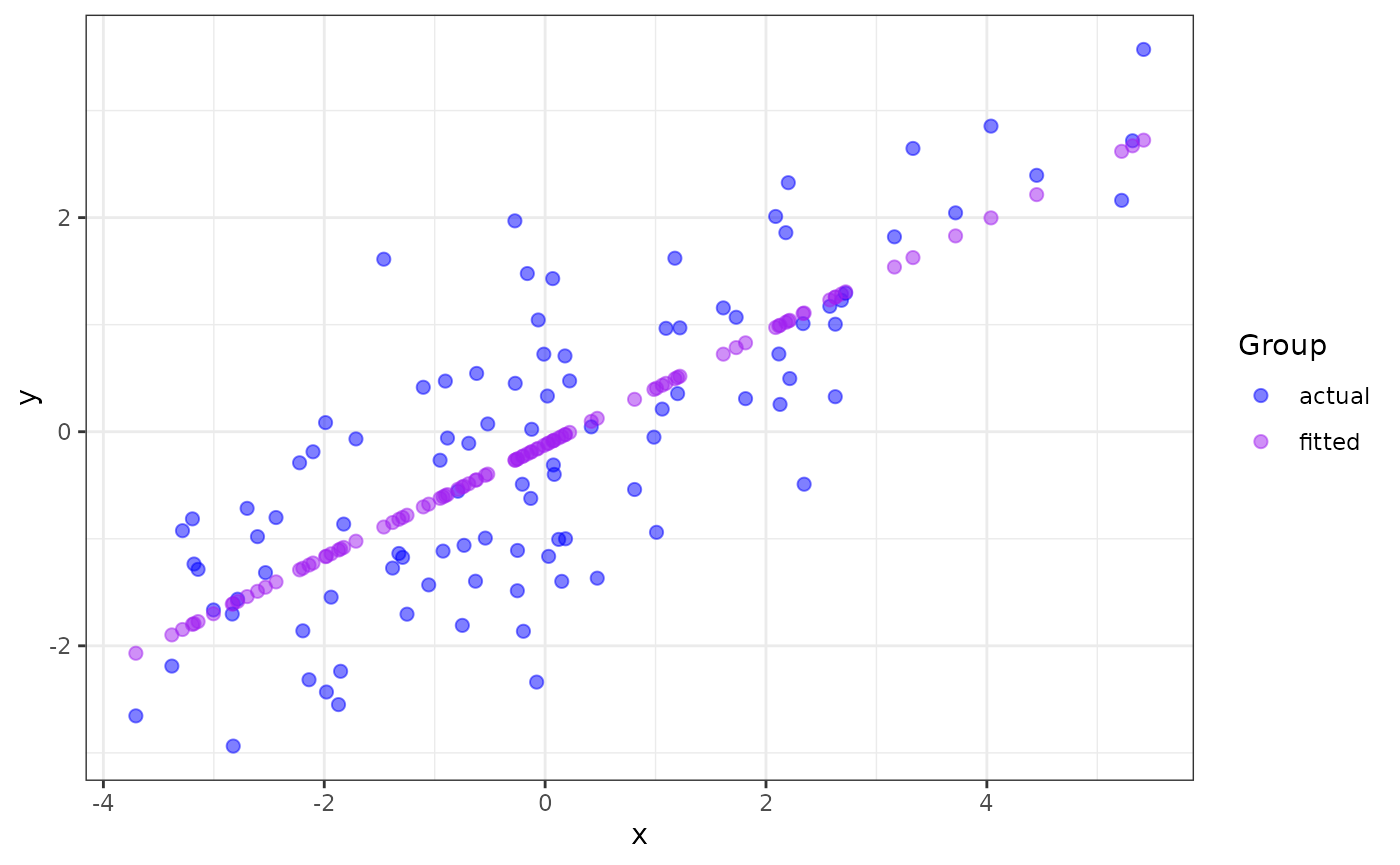
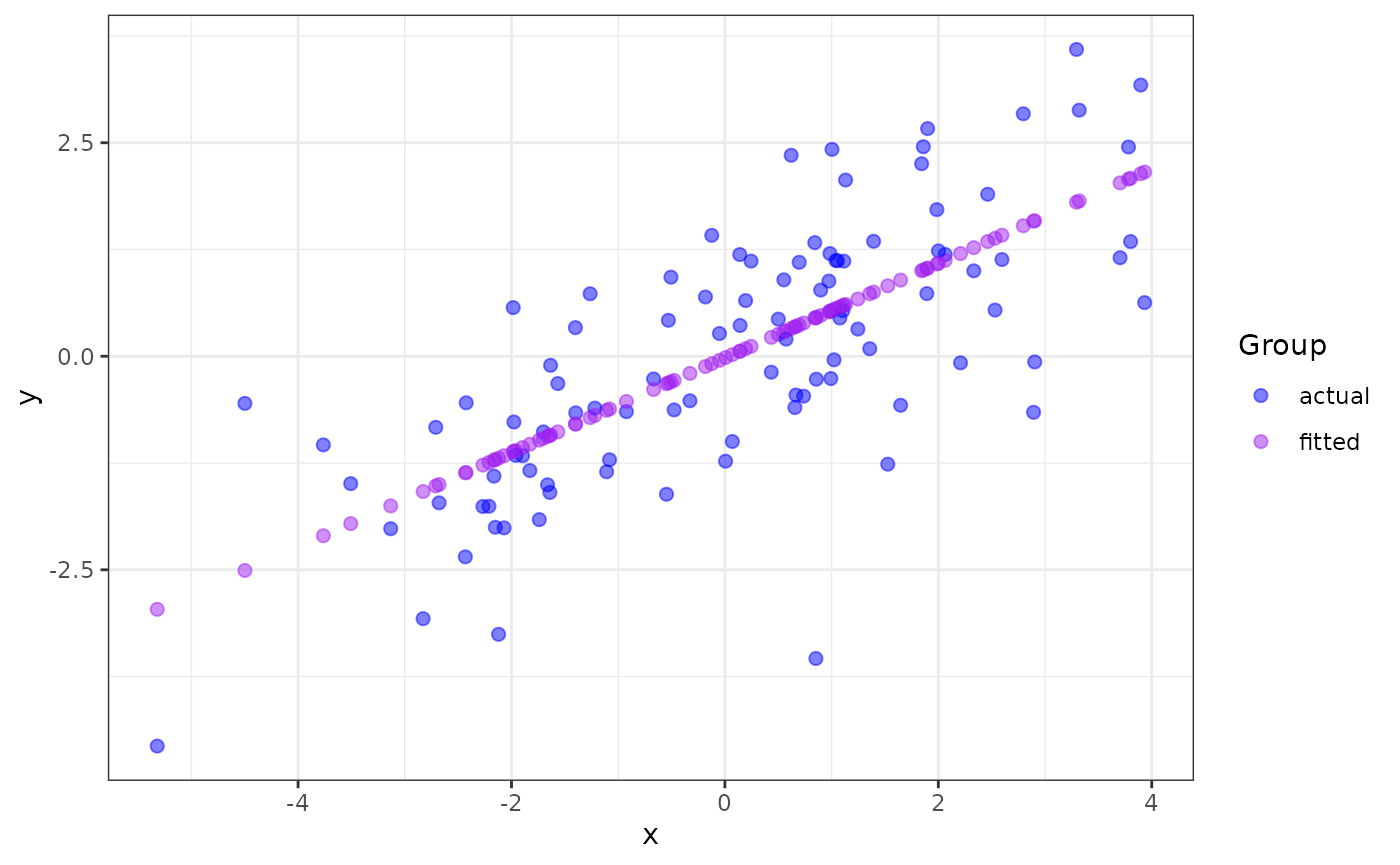
Built site for ggmatplot: 0.1.1@3f564da

diff --git a/articles/ggmatplot.html b/articles/ggmatplot.html
@@ -103,7 +103,7 @@
 <span class="va">x</span> <span class="op">&lt;-</span> <span class="fu"><a href="https://rdrr.io/r/base/c.html" class="external-link">c</a></span><span class="op">(</span><span class="fu"><a href="https://rdrr.io/r/stats/Normal.html" class="external-link">rnorm</a></span><span class="op">(</span><span class="fl">100</span>, sd <span class="op">=</span> <span class="fl">2</span><span class="op">)</span><span class="op">)</span>
 
 <span class="fu"><a href="https://rdrr.io/r/utils/head.html" class="external-link">head</a></span><span class="op">(</span><span class="va">x</span><span class="op">)</span>
-<span class="co">#&gt; [1]  1.0948220 -0.2062841 -1.4609687  0.1846782 -3.1793001 -2.8241195</span>
+<span class="co">#&gt; [1]  1.0401676 -1.3981309 -3.7633375  1.3574021  0.8423598 -2.1210090</span>
 
 <span class="co"># matrix z</span>
 <span class="va">y</span> <span class="op">&lt;-</span> <span class="va">x</span> <span class="op">*</span> <span class="fl">0.5</span> <span class="op">+</span> <span class="fu"><a href="https://rdrr.io/r/stats/Normal.html" class="external-link">rnorm</a></span><span class="op">(</span><span class="fl">100</span>, sd <span class="op">=</span> <span class="fl">1</span><span class="op">)</span>
@@ -112,13 +112,13 @@
            fitted <span class="op">=</span> <span class="va">fit.y</span><span class="op">)</span>
 
 <span class="fu"><a href="https://rdrr.io/r/utils/head.html" class="external-link">head</a></span><span class="op">(</span><span class="va">z</span><span class="op">)</span>
-<span class="co">#&gt;       actual      fitted</span>
-<span class="co">#&gt; 1  0.9657605  0.45210511</span>
-<span class="co">#&gt; 2 -0.4907359 -0.23125175</span>
-<span class="co">#&gt; 3  1.6114766 -0.89022745</span>
-<span class="co">#&gt; 4 -1.0000322 -0.02591352</span>
-<span class="co">#&gt; 5 -1.2359083 -1.79271618</span>
-<span class="co">#&gt; 6 -2.9366151 -1.60617094</span></code></pre></div>
+<span class="co">#&gt;        actual     fitted</span>
+<span class="co">#&gt; 1  1.12119555  0.5563001</span>
+<span class="co">#&gt; 2 -0.66268607 -0.7927856</span>
+<span class="co">#&gt; 3 -1.03751117 -2.1014304</span>
+<span class="co">#&gt; 4  0.08824821  0.7318227</span>
+<span class="co">#&gt; 5  1.33072493  0.4468550</span>
+<span class="co">#&gt; 6 -3.25531791 -1.1927468</span></code></pre></div>
 <p><code>ggmatplot</code> plots vector <code>x</code> against each column of matrix <code>z</code> using the default <code>plot_type = "point"</code>. This will be represented on the resulting plot as two groups, identified using different shapes and colors.</p>
 <div class="sourceCode" id="cb2"><pre class="downlit sourceCode r">
 <code class="sourceCode R"><span class="kw"><a href="https://rdrr.io/r/base/library.html" class="external-link">library</a></span><span class="op">(</span><span class="va"><a href="https://github.com/xuan-liang/ggmatplot" class="external-link">ggmatplot</a></span><span class="op">)</span>
